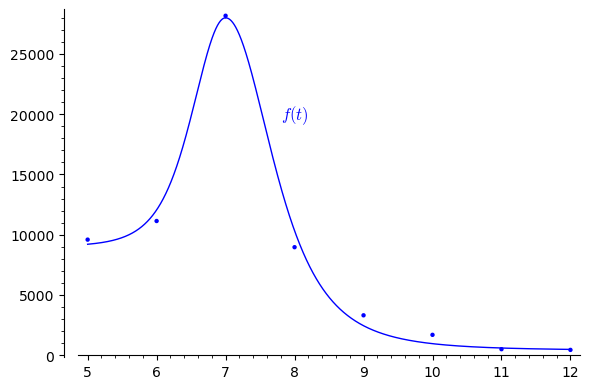
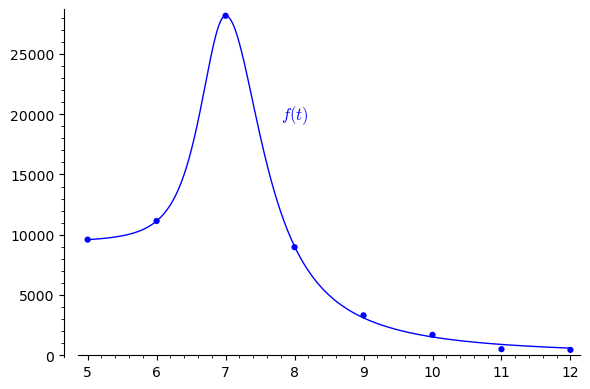
Updated plots and better notation for large SSE values in plots

diff --git a/playground/integration.html b/playground/integration.html
@@ -115,7 +115,15 @@
 
 
 </head>
-<body><div class="sidenav normalwidth"><button style="border:none; background-color: Transparent;" onclick="showhidemenu()" title="Toggle toc"><span style="font-size: 30px;">&#9776;</span></button><button class="openbs" title="Open buttons">+</button><button class="closebs" title="Close buttons">-</button><ul class="leftmenu" style="display: none;"><li><a class="kap" href="playground.html#eace9cb4-259c-4df8-846a-126a669c401a"><b>1</b> Playground</a></li><a href="#kap1" data-toggle="collapse"><span class="downtick">&#10095</span></a><ul id="kap1" class="collapse"><li><a href="playground.html#05053b54-cc97-4c9b-92ef-09a2c0595f3c">1.1 Example problems</a></li></ul><li><a class="kap" href="sandbox.html#3119e3af-bf7e-4b18-a423-64d0c821a901"><b>2</b> Sandbox</a></li><a href="#kap2" data-toggle="collapse"><span class="downtick">&#10095</span></a><ul id="kap2" class="collapse"><li><a href="sandbox.html#d83065e3-748b-4d7a-9c32-613422ab952f">2.1 Exercises for week 7</a></li></ul><li><a class="kap" href="integration.html#36887728-ef24-4ec7-a60a-7a7b3683a9d6"><b>3</b> Integration</a></li><a href="#kap3" data-toggle="collapse"><span class="downtick">&#10095</span></a><ul id="kap3" class="collapse"></ul><li><a class="kap" href="rsage.html#17d08815-e3d8-461c-9e46-a0b395842fa0"><b>4</b> R in sagecell</a></li><a href="#kap4" data-toggle="collapse"><span class="downtick">&#10095</span></a><ul id="kap4" class="collapse"><li><a href="rsage.html#19c075dd-81dd-4ee4-94a9-dfe895a373b6">4.1 Potential solution</a></li></ul><li><a class="kap" href="limit_slide.html#348db525-9103-479f-94ee-24fed5d1fd29"><b>5</b> A step toward limits</a></li><a href="#kap5" data-toggle="collapse"><span class="downtick">&#10095</span></a><ul id="kap5" class="collapse"></ul><li><a class="kap" href="mentimeter.html#7f8d8db8-fd69-441b-bb9f-e4fe73864060"><b>6</b> Mentimeter</a></li><a href="#kap6" data-toggle="collapse"><span class="downtick">&#10095</span></a><ul id="kap6" class="collapse"></ul><li><a class="kap" href="bibliography.html#d782b62c-4343-4ea1-a7b7-578c6880444b"><b>7</b> Bibliography test</a></li><a href="#kap7" data-toggle="collapse"><span class="downtick">&#10095</span></a><ul id="kap7" class="collapse"></ul></ul></div><div class="main normalmargin"><div style="margin-top:20px"></div><div style="margin-top:20px"></div><h1 id="36887728-ef24-4ec7-a60a-7a7b3683a9d6">3<span style="float:right;">Integration</span></h1>
+<body><div class="sidenav normalwidth"><button style="border:none; background-color: Transparent;" onclick="showhidemenu()" title="Toggle toc"><span style="font-size: 30px;">&#9776;</span></button><button class="openbs" title="Open buttons">+</button><button class="closebs" title="Close buttons">-</button><ul class="leftmenu" style="display: none;"><li><a class="kap" href="playground.html#eace9cb4-259c-4df8-846a-126a669c401a"><b>1</b> Playground</a></li><a href="#kap1" data-toggle="collapse"><span class="downtick">&#10095</span></a><ul id="kap1" class="collapse"><li><a href="playground.html#05053b54-cc97-4c9b-92ef-09a2c0595f3c">1.1 Example problems</a></li></ul><li><a class="kap" href="sandbox.html#3119e3af-bf7e-4b18-a423-64d0c821a901"><b>2</b> Sandbox</a></li><a href="#kap2" data-toggle="collapse"><span class="downtick">&#10095</span></a><ul id="kap2" class="collapse"><li><a href="sandbox.html#d83065e3-748b-4d7a-9c32-613422ab952f">2.1 Exercises for week 7</a></li></ul><li><a class="kap" href="integration.html#722a5eaa-4d51-4531-a187-4db1a423ef8f"><b>3</b> Integration</a></li><a href="#kap3" data-toggle="collapse"><span class="downtick">&#10095</span></a><ul id="kap3" class="collapse"></ul><li><a class="kap" href="rsage.html#3d2bab9c-bd11-4452-bb85-e9702ec7f235"><b>4</b> R in sagecell</a></li><a href="#kap4" data-toggle="collapse"><span class="downtick">&#10095</span></a><ul id="kap4" class="collapse"><li><a href="rsage.html#bbe2b9c2-3e69-4524-aec3-5380e17f457a">4.1 Potential solution</a></li></ul><li><a class="kap" href="limit_slide.html#348db525-9103-479f-94ee-24fed5d1fd29"><b>5</b> A step toward limits</a></li><a href="#kap5" data-toggle="collapse"><span class="downtick">&#10095</span></a><ul id="kap5" class="collapse"></ul><li><a class="kap" href="mentimeter.html#7f8d8db8-fd69-441b-bb9f-e4fe73864060"><b>6</b> Mentimeter</a></li><a href="#kap6" data-toggle="collapse"><span class="downtick">&#10095</span></a><ul id="kap6" class="collapse"></ul><li><a class="kap" href="bibliography.html#d782b62c-4343-4ea1-a7b7-578c6880444b"><b>7</b> Bibliography test</a></li><a href="#kap7" data-toggle="collapse"><span class="downtick">&#10095</span></a><ul id="kap7" class="collapse"></ul></ul></div><div class="main normalmargin"><div style="margin-top:20px"></div><div style="margin-top:20px"></div><h1 id="722a5eaa-4d51-4531-a187-4db1a423ef8f">3<span style="float:right;">Integration</span></h1>
+ 
+ 
+ 
+ 
+ 
+ 
+ 
+
 <span id="env3.1"></span><div class="exercise" data-count="3.1">     
 DR bragte i 2022 <a href="https://www.dr.dk/nyheder/indland/ferievaner-fra-tiden-med-corona-bider-sig-fast-ny-vandrerute-paa-djursland-skal" target="_blank">en nyhed</a>
 om at danskernes ferievaner havde ændret sig som følge af corona pandemien,
@@ -127,7 +135,7 @@ end for den tilsvarende periode i 2019 (altså før pandemien). Dette er illustr
 således at <span class="math"></span><script type="math/tex">t = 1</script> svarer til januar og <span class="math"></span><script type="math/tex">t = 12</script> svarer til december.<div style="margin-top:20px"></div><span id="{labelname}"></span><div id="quiz1" style="width:100%;"><div class="row quizquestion">
 <b>a)</b> Hvad er det samlede antal bookede husuger i hele 2019?
 </div><div class="row"><div class="col-xs-5 quizanswer" datav="F">
-<div class="math"></div><script type="math/tex; mode=display">\sum_{t = 2019} x_i</script><div style="margin-top:20px"></div></div><div class="col-xs-5 quizanswer" datav="F">
+<div class="math"></div><script type="math/tex; mode=display">\sum_{t = 2019} x_t</script><div style="margin-top:20px"></div></div><div class="col-xs-5 quizanswer" datav="F">
 <div class="math"></div><script type="math/tex; mode=display">\sum_{t = 5}^{12} y_t</script><div style="margin-top:20px"></div></div><div class="col-xs-5 quizanswer" datav="T">
 <div class="math"></div><script type="math/tex; mode=display">\sum_{i = 1}^{12} x_i</script><div style="margin-top:20px"></div></div><div class="col-xs-5 quizanswer" datav="F">
 <div class="math"></div><script type="math/tex; mode=display">\sum_{t = 5}^{12} x_t</script><div style="margin-top:20px"></div></div></div></div><button id="quizbutton1" class = "btn btn-default">Check</button><script>$("#quizbutton1").click(function(){quizshowanswers(quiz1, quizbutton1);});</script><div style="margin-top:20px"></div>En økonom, der er interesseret i at lave en model for markedet for sommerhusudlejning,
@@ -152,35 +160,41 @@ Nedenfor er vist et plot af denne funktion sammen med data fra 2019 fra figuren 
   midt i juni til midt i august 2019.<div style="margin-top:20px"></div><b>e)</b> Opskriv et integral, der udtrykker antallet af bookede husuger fra
   starten af året indtil tiden <span class="math"></span><script type="math/tex">T</script> i 2022.<div style="margin-top:20px"></div><b>f)</b> Formulér følgende udsagn matematisk, udtrykt ved datapunkterne <span class="math"></span><script type="math/tex">x_t</script> og <span class="math"></span><script type="math/tex">y_t</script>: 
   <i>fra maj til december 2022 var der 27 procent flere bookinger end for den tilsvarende periode i 2019</i>.<div style="margin-top:20px"></div><b>g)</b> Formulér følgende udsagn matematisk, udtrykt ved bestemte integraler af funktionerne <span class="math"></span><script type="math/tex">f(t)</script> og <span class="math"></span><script type="math/tex">g(t)</script>:
-  <i>fra maj til december 2022 var der 27 procent flere bookinger end for den tilsvarende periode i 2019</i>.<div style="margin-top:20px"></div><b>h)</b> Prøv selv at finde en funktion, som beskriver de observerede data.
+  <i>fra maj til december 2022 var der 27 procent flere bookinger end for den tilsvarende periode i 2019</i>.<div style="margin-top:20px"></div>
+<b>h)</b> Prøv selv at finde en funktion, som beskriver de observerede data.
 Du kan ændre funktionsudtrykket for <span class="math"></span><script type="math/tex">f(t)</script> i feltet nedenfor, og se hvor godt det passer
 med data fra 2019. Hvad er den bedste funktion, du kan finde? Som en hjælp beregnes summen af kvadrerede afvigelser,
 som er vist i plottet nedenfor som SSE (Sum of Squared Errors). Med andre ord er opgaven at finde en funktion,
-med den lavest mulige SSE.
-<p><div style="float:right;"><a href="#6d20c198-a3b1-4d62-a396-2fef79b4e1f1" class="btn btn-default"data-toggle="collapse"><span class="glyphicon glyphicon-eye-open"></span><span class="glyphicon glyphicon-eye-open"></span></a></div><div style="clear: both;"></div></p><div id="6d20c198-a3b1-4d62-a396-2fef79b4e1f1" class="collapse">
+med den lavest mulige SSE. 
+<p><div style="float:right;"><a href="#e9349b60-7d57-48e2-bbf1-1d4180e07bba" class="btn btn-default"data-toggle="collapse"><span class="glyphicon glyphicon-eye-open"></span><span class="glyphicon glyphicon-eye-open"></span></a></div><div style="clear: both;"></div></p><div id="e9349b60-7d57-48e2-bbf1-1d4180e07bba" class="collapse">
   Summen af kvadrerede afvigelser (SSE) er defineret som
   <div class="math"></div><script type="math/tex; mode=display">\mathrm{SSE} = \sum_{t = 5}^{12} \left(x_t - f(t)\right)^2,</script>
   hvor <span class="math"></span><script type="math/tex">x_t</script> er det faktiske antal bookede husuger i måned nummer <span class="math"></span><script type="math/tex">t</script> i 2019, og <span class="math"></span><script type="math/tex">f(t)</script> er antal bookede husuger i måned nummer <span class="math"></span><script type="math/tex">t</script>
-  som modelfunktionen <span class="math"></span><script type="math/tex">f(t)</script> beskriver.
+  som modelfunktionen <span class="math"></span><script type="math/tex">f(t)</script> beskriver.<div style="margin-top:20px"></div>Den funktion <span class="math"></span><script type="math/tex">f(t)</script> som økonomen fandt giver <span class="math"></span><script type="math/tex">\text{SSE} = 2.58\cdot 10^6</script>.
 </div>
 <div class="sage"><script type="text/x-sage">
 t = var('t')
 booked_2019 =[(5, 9596), (6, 11141), (7, 28172), (8, 8968), (9, 3316), (10, 1696), (11, 505), (12, 447)]
+def frexp10(x):
+    expo = int(math.floor(math.log10(abs(x))))
+    return x / 10**expo, expo
 @interact
 def booked_function(expression=input_box('25000 - 2000 * t', 'f(t) =', str)):
     if expression:
         try:
-            SSE = sum([(SR(expression)(t = x) - y)**2 for x, y in booked_2019])
+            SSE = n(sum([(SR(expression)(t = x) - y)**2 for x, y in booked_2019]))
+            SSE_string = 'SSE\u0024={0:.2f}\\cdot 10^{{{1}}}\u0024'.format(*frexp10(SSE))
+            # SSE_string = 'SSE = {:.2g}'.format(SSE)
             p1 = plot(SR(expression), (t, 5, 12))
             p2 = point(booked_2019)
-            p3 = text("SSE = {}".format(SSE), (9,2.5e4), horizontal_alignment = 'left')
+            p3 = text(SSE_string, (9,2.5e4), horizontal_alignment = 'left', fontsize = 14)
             (p1 + p2 + p3).show()
         except TypeError:
             print("Der er et problem med dit funktionsudtryk.")
     else:
         print("Vær opmærksom på at dit udtryk kan plottes.")
 </script></div>
-<p><div style="float:right;"><a href="#0026c53c-eb2d-4952-a3cf-69c577108d79" class="btn btn-default"data-toggle="collapse"><span class="glyphicon glyphicon-eye-open"></span><span class="glyphicon glyphicon-eye-open"></span></a></div><div style="clear: both;"></div></p><div id="0026c53c-eb2d-4952-a3cf-69c577108d79" class="collapse">
+<p><div style="float:right;"><a href="#933b9238-a2c7-4b4a-96be-55994966f353" class="btn btn-default"data-toggle="collapse"><span class="glyphicon glyphicon-eye-open"></span><span class="glyphicon glyphicon-eye-open"></span></a></div><div style="clear: both;"></div></p><div id="933b9238-a2c7-4b4a-96be-55994966f353" class="collapse">
   Der findes selvfølgelig metoder til at finde den funktion af en bestemt type, der bedst beskriver data.
   Fx. kan man finde den bedste rette linje (lineære funktion) ved hjælp af lineær regression. Det kommer
   du til at lære meget mere om i faget <em>kvantitativ metode</em> på andet semester.<div style="margin-top:20px"></div>Man skal selvfølgelig passe på ikke at overfitte, se figuren nedenfor fra <a href="xkcd" target="_blank">https://xkcd.com/2048</a>.

diff --git a/playground/rsage.html b/playground/rsage.html
@@ -111,7 +111,7 @@
 </script>
 
 </head>
-<body><div class="sidenav normalwidth"><button style="border:none; background-color: Transparent;" onclick="showhidemenu()" title="Toggle toc"><span style="font-size: 30px;">&#9776;</span></button><button class="openbs" title="Open buttons">+</button><button class="closebs" title="Close buttons">-</button><ul class="leftmenu" style="display: none;"><li><a class="kap" href="playground.html#eace9cb4-259c-4df8-846a-126a669c401a"><b>1</b> Playground</a></li><a href="#kap1" data-toggle="collapse"><span class="downtick">&#10095</span></a><ul id="kap1" class="collapse"><li><a href="playground.html#05053b54-cc97-4c9b-92ef-09a2c0595f3c">1.1 Example problems</a></li></ul><li><a class="kap" href="sandbox.html#3119e3af-bf7e-4b18-a423-64d0c821a901"><b>2</b> Sandbox</a></li><a href="#kap2" data-toggle="collapse"><span class="downtick">&#10095</span></a><ul id="kap2" class="collapse"><li><a href="sandbox.html#d83065e3-748b-4d7a-9c32-613422ab952f">2.1 Exercises for week 7</a></li></ul><li><a class="kap" href="integration.html#276c87ba-0137-4cea-903b-a10e4b532507"><b>3</b> Integration</a></li><a href="#kap3" data-toggle="collapse"><span class="downtick">&#10095</span></a><ul id="kap3" class="collapse"></ul><li><a class="kap" href="rsage.html#17d08815-e3d8-461c-9e46-a0b395842fa0"><b>4</b> R in sagecell</a></li><a href="#kap4" data-toggle="collapse"><span class="downtick">&#10095</span></a><ul id="kap4" class="collapse"><li><a href="rsage.html#19c075dd-81dd-4ee4-94a9-dfe895a373b6">4.1 Potential solution</a></li></ul><li><a class="kap" href="limit_slide.html#348db525-9103-479f-94ee-24fed5d1fd29"><b>5</b> A step toward limits</a></li><a href="#kap5" data-toggle="collapse"><span class="downtick">&#10095</span></a><ul id="kap5" class="collapse"></ul><li><a class="kap" href="mentimeter.html#7f8d8db8-fd69-441b-bb9f-e4fe73864060"><b>6</b> Mentimeter</a></li><a href="#kap6" data-toggle="collapse"><span class="downtick">&#10095</span></a><ul id="kap6" class="collapse"></ul><li><a class="kap" href="bibliography.html#d782b62c-4343-4ea1-a7b7-578c6880444b"><b>7</b> Bibliography test</a></li><a href="#kap7" data-toggle="collapse"><span class="downtick">&#10095</span></a><ul id="kap7" class="collapse"></ul></ul></div><div class="main normalmargin"><div style="margin-top:20px"></div><div style="margin-top:20px"></div><h1 id="17d08815-e3d8-461c-9e46-a0b395842fa0">4<span style="float:right;">R in sagecell</span></h1>
+<body><div class="sidenav normalwidth"><button style="border:none; background-color: Transparent;" onclick="showhidemenu()" title="Toggle toc"><span style="font-size: 30px;">&#9776;</span></button><button class="openbs" title="Open buttons">+</button><button class="closebs" title="Close buttons">-</button><ul class="leftmenu" style="display: none;"><li><a class="kap" href="playground.html#eace9cb4-259c-4df8-846a-126a669c401a"><b>1</b> Playground</a></li><a href="#kap1" data-toggle="collapse"><span class="downtick">&#10095</span></a><ul id="kap1" class="collapse"><li><a href="playground.html#05053b54-cc97-4c9b-92ef-09a2c0595f3c">1.1 Example problems</a></li></ul><li><a class="kap" href="sandbox.html#3119e3af-bf7e-4b18-a423-64d0c821a901"><b>2</b> Sandbox</a></li><a href="#kap2" data-toggle="collapse"><span class="downtick">&#10095</span></a><ul id="kap2" class="collapse"><li><a href="sandbox.html#d83065e3-748b-4d7a-9c32-613422ab952f">2.1 Exercises for week 7</a></li></ul><li><a class="kap" href="integration.html#1b310120-0467-46fe-abfa-dd757c5dcf15"><b>3</b> Integration</a></li><a href="#kap3" data-toggle="collapse"><span class="downtick">&#10095</span></a><ul id="kap3" class="collapse"></ul><li><a class="kap" href="rsage.html#3d2bab9c-bd11-4452-bb85-e9702ec7f235"><b>4</b> R in sagecell</a></li><a href="#kap4" data-toggle="collapse"><span class="downtick">&#10095</span></a><ul id="kap4" class="collapse"><li><a href="rsage.html#bbe2b9c2-3e69-4524-aec3-5380e17f457a">4.1 Potential solution</a></li></ul><li><a class="kap" href="limit_slide.html#348db525-9103-479f-94ee-24fed5d1fd29"><b>5</b> A step toward limits</a></li><a href="#kap5" data-toggle="collapse"><span class="downtick">&#10095</span></a><ul id="kap5" class="collapse"></ul><li><a class="kap" href="mentimeter.html#7f8d8db8-fd69-441b-bb9f-e4fe73864060"><b>6</b> Mentimeter</a></li><a href="#kap6" data-toggle="collapse"><span class="downtick">&#10095</span></a><ul id="kap6" class="collapse"></ul><li><a class="kap" href="bibliography.html#d782b62c-4343-4ea1-a7b7-578c6880444b"><b>7</b> Bibliography test</a></li><a href="#kap7" data-toggle="collapse"><span class="downtick">&#10095</span></a><ul id="kap7" class="collapse"></ul></ul></div><div class="main normalmargin"><div style="margin-top:20px"></div><div style="margin-top:20px"></div><h1 id="3d2bab9c-bd11-4452-bb85-e9702ec7f235">4<span style="float:right;">R in sagecell</span></h1>
 Below is an example of executing R code in a Sage Cell. There are numerous problems
 <ul><li> It seems you must use =, not <- for assignment
   </li><li> You can't use the dollar operator, since QaDiL converts it to mathematics
@@ -125,7 +125,7 @@ See further below for a potential solution.
   months = c('Maj', 'Juni', 'Juli', 'August', 'September', 'Oktober', 'November', 'December')
   booked_2019 = c(9596, 11141, 28172, 8968, 3316, 1696, 505, 447)
   booked_2022 = c(12677, 15140, 33209, 10790, 5066, 2323, 1037, 693)
-  bookings_2019 = data.frame(month = factor(months, levels = months),
+  bookings_2019 <- data.frame(month = factor(months, levels = months),
                        booked = booked_2019, year = 2019)
   bookings_2022 = data.frame(month = factor(months, levels = months),
                        booked = booked_2022, year = 2022)
@@ -141,7 +141,7 @@ See further below for a potential solution.
     ylab('Antal bookinger') +
     theme_classic() +
     theme(aspect.ratio = 4/3)
-</script></div><div style="margin-top:20px"></div><span id="sec4.1"></span><h2 id="19c075dd-81dd-4ee4-94a9-dfe895a373b6">4.1 Potential solution</h2>
+</script></div><div style="margin-top:20px"></div><span id="sec4.1"></span><h2 id="bbe2b9c2-3e69-4524-aec3-5380e17f457a">4.1 Potential solution</h2>
 Here, I embed the same plot, but generated with plotly and saved with saveWidget
 from the htmlwidgets package. The plot is embedded using an iframe.<div style="margin-top:20px"></div><div style="margin-top:20px"></div><center>
   
